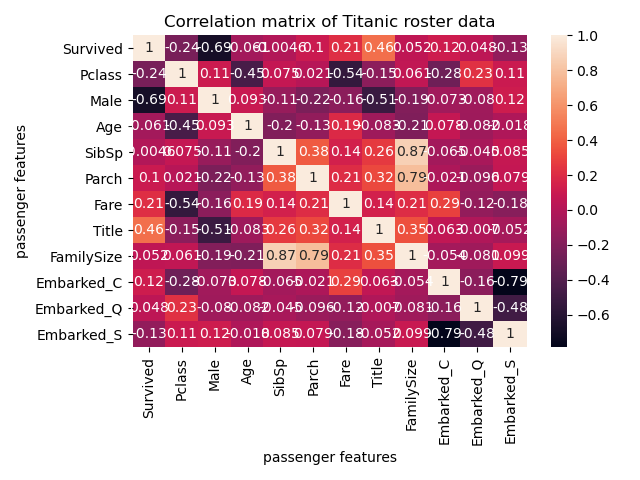
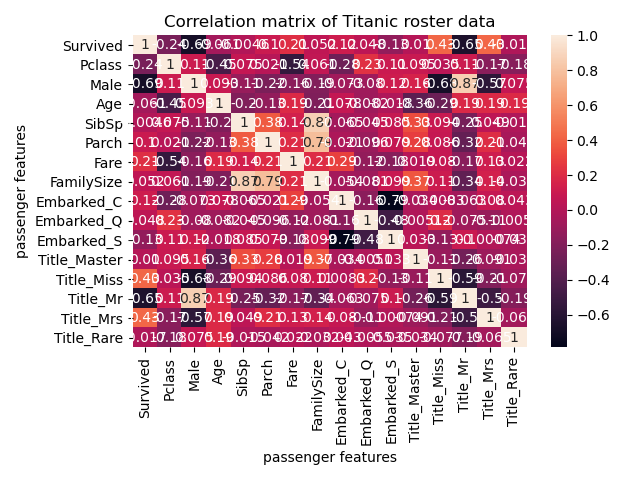
Feature Importance
Anish added feature importance plots

diff --git a/ML_Project.py b/ML_Project.py
@@ -20,8 +20,11 @@ run_graphviz = 0 # runs graphviz code to create PDF visualizations
 print_extra_info = 0 # prints extra intermediary information
 # as the script runs.
 
+# WARNING: Need to install mlxtend data visualization package for some of the plots
+# Can simply be done through conda-forge or using 'pip install mlxtend' in PyPI
+
 ########################################################################
-##### Thomas's Data Cleaning and Correlations
+##### Data Cleaning and Correlations
 ### Import Necessary Libraries
 
 import numpy as np # Linear algebra
@@ -32,10 +35,12 @@ import matplotlib.pyplot as plt # Plotting results
 import random as rnd # Random number generator
 
 
-### Thomas's Importing Data
+### Importing Data
+train_csv = r'data\train.csv' # Dataset to train machine learning (ML) algorithms
+test_csv = r'data\test.csv' # Dataset to test ML algorithms
+answer_csv = r'data\gender_submission.csv' # Answerkey dataset
 combined_csv = r'data\test_train_combined.csv' # Dataset with merging solutions and training data into
 # one big dataset
-
 
 # Create Pandas Data Frames
 combined_df = pd.read_csv(combined_csv, index_col=0)
@@ -59,10 +64,10 @@ if show_figures == 1:
     plt.show()
 plt.close()
 
-### Thomas's Data Cleanup
+### Data Cleanup
 
 for dataset in combine: # Perform this action for both the testing and training datasets
-    #  Removing unused columns
+    #  Removing unused columns because too much missing data
     dataset.drop(['Ticket','Cabin'],inplace=True,axis=1)
 
 
@@ -124,36 +129,30 @@ for dataset in combine: # Perform this action for both the testing and training 
 #print(combined_df.isnull())
 
 
-### Anish's Feature Engineering
+### Feature Engineering
 
 ## Title
-   
-titles = {"Mr": 1, "Miss": 2, "Mrs": 3, "Master": 4, "Rare": 5} # Define what titles are
+
+import re # Creating a function to extract titles from passenger names
+def get_title(name):
+    title_search = re.search(' ([A-Za-z]+)\.', name) # If the title exists, extract and return it
+    if title_search:
+        return title_search.group(1)
+    return ""
+# Create a new feature Title, containing the titles of passenger names
+for dataset in combine: # Perform this action for both the testing and training datasets
+    dataset['Title'] = dataset['Name'].apply(get_title) # Use the function
 
 for dataset in combine: # Perform this action for both the testing and training datasets
-    dataset['Title'] = dataset.Name.str.extract(' ([A-Za-z]+)\.', expand=False) # Extract titles from names
-    dataset['Title'] = dataset['Title'].replace(['Lady', 'Countess','Capt', 'Col','Don', 'Dr',\
-                                            'Major', 'Rev', 'Sir', 'Jonkheer', 'Dona'], 'Rare') # These are rare titles which may indicate a different relevance than other titles
-    dataset['Title'] = dataset['Title'].replace('Mlle', 'Miss')
+    dataset['Title'] = dataset['Title'].replace(['Lady', 'Countess','Capt', 'Col','Don', 'Dr', 'Major', 'Rev', 'Sir', 'Jonkheer', 'Dona'], 'Rare') # Group all non-common titles into one single grouping "Rare"
+    dataset['Title'] = dataset['Title'].replace('Mlle', 'Miss') # Group Mlle and Ms into a single category "Miss"
     dataset['Title'] = dataset['Title'].replace('Ms', 'Miss')
-    dataset['Title'] = dataset['Title'].replace('Mme', 'Mrs')
-    dataset['Title'] = dataset['Title'].map(titles)  # Convert titles into numbers for ML purposes
-    dataset['Title'] = dataset['Title'].fillna(0)
-
-combined_df = combined_df.drop(['Name'], axis=1)
-
+    dataset['Title'] = dataset['Title'].replace('Mme', 'Mrs') # Group Mme with "Mrs" category
+    dataset.drop(['Name'],inplace=True,axis=1) # Removing unused column now that Title feature has been designed
 
 ## Family Size
 
-#for dataset in combine: # Perform this action for both the testing and training datasets
 combined_df['FamilySize'] = combined_df['SibSp'] + combined_df['Parch'] + 1 # Creates a separate single variable for family size
-#dataset['FamilySize'] = dataset['SibSp'] + dataset['Parch'] + 1 # Creates a separate single variable for family size
-
-    ## Split Embarked data into three boolean columns
-    #dataset = pd.get_dummies(dataset)
-
-
-## Thomas's Remove missing data
 
 # Create Heatmap to Check Again for Entries Missing Data
 # (uncomment the below lines to obtain the plot)
@@ -185,14 +184,14 @@ combined_df = combined_df.dropna()
 
 
 ## Making embarkation data usable
-# Emptry entries had to be removed before this can be done.
+# Empty entries had to be removed before this can be done.
 
 # OPTION 1: Change strings to integers
 
 #ports = {"S": 0, "C": 1, "Q": 2}
 #combined_df['Embarked'] = combined_df['Embarked'].map(ports)
 
-# OPTION 2: Split Embarked data into three boolean columns
+# OPTION 2: Split categorical data into separate boolean columns
 
 combined_df = pd.get_dummies(combined_df)
 # Split the string-based embarked data into three columns with boolean 
@@ -232,7 +231,7 @@ plt.close()
 # Plot should show no missing entries, indicating the data is ready for use with ML
 
 
-### Thomas's Correlations
+### Correlations
 
 # Correlation code based on:
 # https://likegeeks.com/python-correlation-matrix/
@@ -267,7 +266,7 @@ from sklearn.model_selection import train_test_split
 from sklearn.metrics import accuracy_score, confusion_matrix
 from sklearn.preprocessing import StandardScaler
 
-# ML Algorithm 1: Decision Trees
+## ML Algorithm 1: Decision Trees
 from sklearn import tree
 from sklearn.tree import DecisionTreeClassifier # Older line of code, left for compatibility
 #data = pd.read_csv('../input/classification-suv-dataset/Social_Network_Ads.csv')
@@ -279,26 +278,27 @@ dt = combined_df.copy()
 
 # Column "Embarked" must also be dropped because it contained non-float data, which
 # is incompatible with the Decision Trees algorithm
-X = dt.drop(['Survived'], axis=1)
-y = dt['Survived'] #dt.iloc[:, 4].values
-X_train, X_test, y_train, y_test = train_test_split(X, y, test_size = 0.20, random_state = 0)
-sc_X = StandardScaler()
+X = dt.drop(['Survived'], axis=1) # Include the whole dataset as features outside of the Survived
+y = dt['Survived'] #dt.iloc[:, 4].values # Match the X with the Survived column from the dataset
+X_train, X_test, y_train, y_test = train_test_split(X, y, test_size = 0.20, random_state = 0) # Splitting combined dataset into 80% train and 20% test
+sc_X = StandardScaler() # Scale and normalize the features into normal distribution
 X_train = sc_X.fit_transform(X_train)
 X_test = sc_X.transform(X_test)
-classifier=tree.DecisionTreeClassifier(criterion="entropy", min_samples_split=100, max_depth=1, random_state=0)
+classifier=tree.DecisionTreeClassifier(criterion="entropy", min_samples_split=100, max_depth=1, random_state=0) # Calling the decision tree classifier from sklearn
 classifier.fit(X_train,y_train)
 y_pred_dt=classifier.predict(X_test)
-acc_dt=accuracy_score(y_test, y_pred_dt)
+acc_dt=accuracy_score(y_test, y_pred_dt) # Calculate the accuracy of decision tree algorithm
 print(f'Decision Trees Accuracy: {round(acc_dt*100,3)}%')
 
-sns.heatmap(confusion_matrix(y_test,y_pred_dt),annot=True,fmt='3.0f',cmap="Blues")
+# Confusion Matrix
+# Based on: https://scikit-learn.org/stable/auto_examples/model_selection/plot_confusion_matrix.html
+sns.heatmap(confusion_matrix(y_test,y_pred_dt),annot=True,fmt='3.0f',cmap="Blues") # Plotting confusion matrix and cross-validation value for the decision tree algorithm
 plt.title('Decision Trees Matrix', y=1.05, size=15)
 plt.savefig('Confusion_Matrix_dt.png')
 plt.tight_layout()
 if show_figures==1:
     plt.show()
 plt.close()
-
 
 # Documentation on decision trees:
 # https://scikit-learn.org/stable/modules/tree.html#tree
@@ -330,7 +330,43 @@ if run_graphviz == 1:
 
 #print(y_train.astype(str).loc[:])
 
-# ML Algorithm 2: Random Forest
+# Feature Importance for Decision Tree
+# Loosely based on https://machinelearningmastery.com/calculate-feature-importance-with-python/ but mainly from Anish's previous research experience
+# For more comments on each line of code, see the feature importance section for random forest algorithm
+importance = [] # Create an array called importance
+names      = [] # Create an array called names
+
+features = [r'Pclass', r'Male', r'Age', r'SibSp', r'Parch', r'Fare', r'Family Size', r'Embarked_C', r'Embarked_Q', r'Embarked_S', r'Title_Master', r'Title_Miss', r'Title_Mr', r'Title_Mrs', r'Title_Rare'] # List all selected features (to be used as x-axis labels in the plot)
+
+for i in range(len(classifier.feature_importances_)):
+    if classifier.feature_importances_[i] > 0.005: # 0.005 is a general alpha threshold value chosen to determine an "important" feature
+        importance.append(classifier.feature_importances_[i]) # Add importance value to importance array
+        names.append(features[i]) # Add feature name to names array
+
+#print(importance)
+#print(names)
+#print(len(names))
+
+fig, ax = plt.subplots(figsize=(14, 6))
+y_pos     = np.arange(len(names))
+bar_width = 0.20
+opacity   = 0.5
+
+plt.barh(y_pos + 0*bar_width, importance, alpha=opacity, color='b', label='xxx')
+
+plt.yticks(y_pos, names)
+plt.tick_params(axis='x', labelsize = 15)
+plt.tick_params(axis='y', labelsize = 15)
+plt.grid(False)
+plt.ylabel('Features', fontsize = 20)
+plt.tight_layout()
+fig.savefig('feature_importance_dt.png', bbox_inches='tight', dpi=400);
+if show_figures==1:
+    plt.show()
+plt.close()
+
+
+## ML Algorithm 2: Random Forest
 from sklearn.ensemble import RandomForestClassifier
 rf = combined_df.copy()
 #rf.head()
@@ -345,6 +381,8 @@ Y_pred_rf = model.predict(X_test)
 acc_rf = model.score(X_test, y_test)
 print(f'Random Forest Accuracy: {round(acc_rf*100,3)}%')
 
+# Confusion Matrix
+# Based from https://scikit-learn.org/stable/auto_examples/model_selection/plot_confusion_matrix.html
 sns.heatmap(confusion_matrix(y_test,Y_pred_rf),annot=True,fmt='3.0f',cmap="Blues")
 plt.title('Random Forest Confusion Matrix', y=1.05, size=15)
 plt.tight_layout()
@@ -353,27 +391,63 @@ if show_figures==1:
     plt.show()
 plt.close()
 
+# Feature Importance for Random Forest
+# Loosely based on https://machinelearningmastery.com/calculate-feature-importance-with-python/ but mainly from Anish's previous research experience
+importance = [] # Create an array called importance
+names      = [] # Create an array called names
 
+features = [r'Pclass', r'Male', r'Age', r'SibSp', r'Parch', r'Fare', r'Family Size', r'Embarked_C', r'Embarked_Q', r'Embarked_S', r'Title_Master', r'Title_Miss', r'Title_Mr', r'Title_Mrs', r'Title_Rare'] # List all selected features (to be used as x-axis labels in the plot)
 
+for i in range(len(model.feature_importances_)):
+    if model.feature_importances_[i] > 0.005: # 0.005 is a general alpha threshold value chosen to determine an "important" feature
+        importance.append(model.feature_importances_[i]) # Add importance value to importance array
+        names.append(features[i]) # Add feature name to names array
+
+#print(importance)
+#print(names)
+#print(len(names))
+
+fig, ax = plt.subplots(figsize=(14, 6))
+
+y_pos     = np.arange(len(names))
+bar_width = 0.20
+opacity   = 0.5
+
+plt.barh(y_pos + 0*bar_width, importance, alpha=opacity, color='b', label='xxx')
+
+plt.yticks(y_pos, names)
+plt.tick_params(axis='x', labelsize = 15)
+plt.tick_params(axis='y', labelsize = 15)
+plt.grid(False)
+plt.ylabel('Features', fontsize = 20)
+plt.tight_layout()
+fig.savefig('feature_importance_rf.png', bbox_inches='tight', dpi=400);
+if show_figures==1:
+    plt.show()
+plt.close()
 
 ########################################################################
 ##### Anish's ML Algorithms
 print('\nAnish\'s ML Algorithm Results:')
 # Based on: https://www.kaggle.com/vinothan/titanic-model-with-90-accuracy; https://www.kaggle.com/startupsci/titanic-data-science-solutions#Titanic-Data-Science-Solutions
 
-# ML Algorithm 3: Logistical Regression
+## ML Algorithm 3: Logistic Regression
 from sklearn.linear_model import LogisticRegression
 
-lr_df = combined_df.copy()
-X_train_lr = lr_df.drop(['Survived'], axis=1)
-Y_train_lr = lr_df['Survived']
+lr_df = combined_df.copy() # Create a copy of the dataframe for Logistic Regression algorithm
 
-logreg = LogisticRegression(solver='lbfgs', max_iter=400)
-logreg.fit(X_train_lr, Y_train_lr)
-Y_pred_lr = logreg.predict(X_test)
-acc_log = logreg.score(X_train_lr, Y_train_lr)
+X = lr_df.drop(['Survived'], axis=1) # Establish all the features to be used in the algorithm (i.e. drop the survived column)
+y = lr_df['Survived'] # Needs to model only with respect to the survived column
+X_train_lr, X_test_lr, y_train_lr, y_test_lr = train_test_split(X, y, test_size = 0.20, random_state = 0)
+
+logreg = LogisticRegression(solver='lbfgs', max_iter=1000) # Calling the logreg function from sklearn
+logreg.fit(X_train_lr, y_train_lr) # Determining best fit of the logistic regression from training data (which is the same 80% of passengers as above)
+Y_pred_lr = logreg.predict(X_test_lr) # Predicting Y values depending on test set
+acc_log = logreg.score(X_test_lr, y_test_lr) # Calculating accuracy
 print(f'Logistic Regression Accuracy: {round(acc_log*100,3)}%')
 
+# Confusion Matrix
+# Based from https://scikit-learn.org/stable/auto_examples/model_selection/plot_confusion_matrix.html
 sns.heatmap(confusion_matrix(y_test,Y_pred_lr),annot=True,fmt='3.0f',cmap="Blues")
 plt.title('Logistical Regression Confusion Matrix', y=1.05, size=15)
 plt.tight_layout()
@@ -382,28 +456,53 @@ if show_figures==1:
     plt.show()
 plt.close()
 
+# Data Analysis Visualization
 
-# Another way to view feature correlations (uncomment to see in terminal output)
-# coeff_df = pd.DataFrame(combined_df.columns.delete(0)) # Details correlations between features for better understanding (I think we should try to do this for all of our models)
-# coeff_df.columns = ['Feature']
-# coeff_df["Correlation"] = pd.Series(logreg.coef_[0])
-# coeff_df.sort_values(by='Correlation', ascending=False)
-# #print(coeff_df)
+print(logreg.intercept_) # Gives the intercept of the best fit logistic regression equation found by the algorithm
+print(logreg.coef_) # Gives the coefficients of the best fit logistic regression equation for each feature found by the algorithm
 
+plt.plot(X_test, Y_pred_lr, 'o'); # Plotting the data points predicted
+plt.tight_layout()
+plt.savefig('Plot_lr.png')
+if show_figures==1:
+    plt.show()
+plt.close()
 
-# ML Algorithm 4: K-Nearest Neighbors (KNN)
+# Feature Importance for Logistic Regression
+
+# Based on: https://machinelearningmastery.com/calculate-feature-importance-with-python/ but mainly from Anish's previous research experience
+
+importance = logreg.coef_[0] # Get feature importance values from algorithm
+plt.bar([r'Pclass', r'Male', r'Age', r'SibSp', r'Parch', r'Fare', r'Family Size', r'Embarked_C', r'Embarked_Q', r'Embarked_S', r'Title_Master', r'Title_Miss', r'Title_Mr', r'Title_Mrs', r'Title_Rare'], importance) # Plot feature importance for logistic regression algorithm
+
+plt.xticks(rotation=45)
+plt.tick_params(axis='x', labelsize = 12)
+plt.tick_params(axis='y', labelsize = 15)
+plt.grid(False)
+plt.xlabel('Features', fontsize = 20)
+plt.tight_layout()
+
+fig.savefig('feature_importance_lr.png', bbox_inches='tight', dpi=400);
+if show_figures==1:
+    plt.show()
+plt.close()
+
+## ML Algorithm 4: K-Nearest Neighbors (KNN)
 from sklearn.neighbors import KNeighborsClassifier
 
 knn_df = combined_df.copy()
-X_train_knn = knn_df.drop(['Survived'], axis=1)
-Y_train_knn = knn_df['Survived']
+X = knn_df.drop(['Survived'], axis=1)
+y = knn_df['Survived']
+X_train_knn, X_test_knn, y_train_knn, y_test_knn = train_test_split(X, y, test_size = 0.20, random_state = 0)
 
 knn = KNeighborsClassifier(n_neighbors = 3)
-knn.fit(X_train_knn, Y_train_knn)
-Y_pred_knn = knn.predict(X_test)
-acc_knn = knn.score(X_train_knn, Y_train_knn)
+knn.fit(X_train_knn, y_train_knn)
+Y_pred_knn = knn.predict(X_test_knn)
+acc_knn = knn.score(X_test_knn, y_test_knn)
 print(f'k-Nearest Neighbors Accuracy: {round(acc_knn*100,3)}%')
 
+# Confusion Matrix
+# Based from https://scikit-learn.org/stable/auto_examples/model_selection/plot_confusion_matrix.html
 sns.heatmap(confusion_matrix(y_test,Y_pred_knn),annot=True,fmt='3.0f',cmap="Blues")
 plt.title('k-Nearest Neighbors Confusion Matrix', y=1.05, size=15)
 plt.tight_layout()
@@ -412,13 +511,17 @@ if show_figures==1:
     plt.show()
 plt.close()
 
+# Feature Importance for k-Nearest Neighbors
 
-### Post-processing
+# Based on https://machinelearningmastery.com/calculate-feature-importance-with-python/
+# k-Nearest Neighbors is one of the algorithms that does not support feature importance or feature selection natively
 
-# Model Evaluation
+##################################################################################### Post-processing
+
+## Model Evaluation
 print('\n')
 models = pd.DataFrame({
     'Model': ['Decision Trees', 'Random Forest', 'Logistic Regression', 'k-Nearest Neighbors'],
-    'Score': [acc_dt, acc_rf, acc_log, acc_knn]})
-models.sort_values(by='Score', ascending=False)
+    'Score': [acc_dt, acc_rf, acc_log, acc_knn]}) # Tag each ML algorithm with its respective accuracy score
+models.sort_values(by='Score', ascending=False) # Sort by descending score
 print(models)
